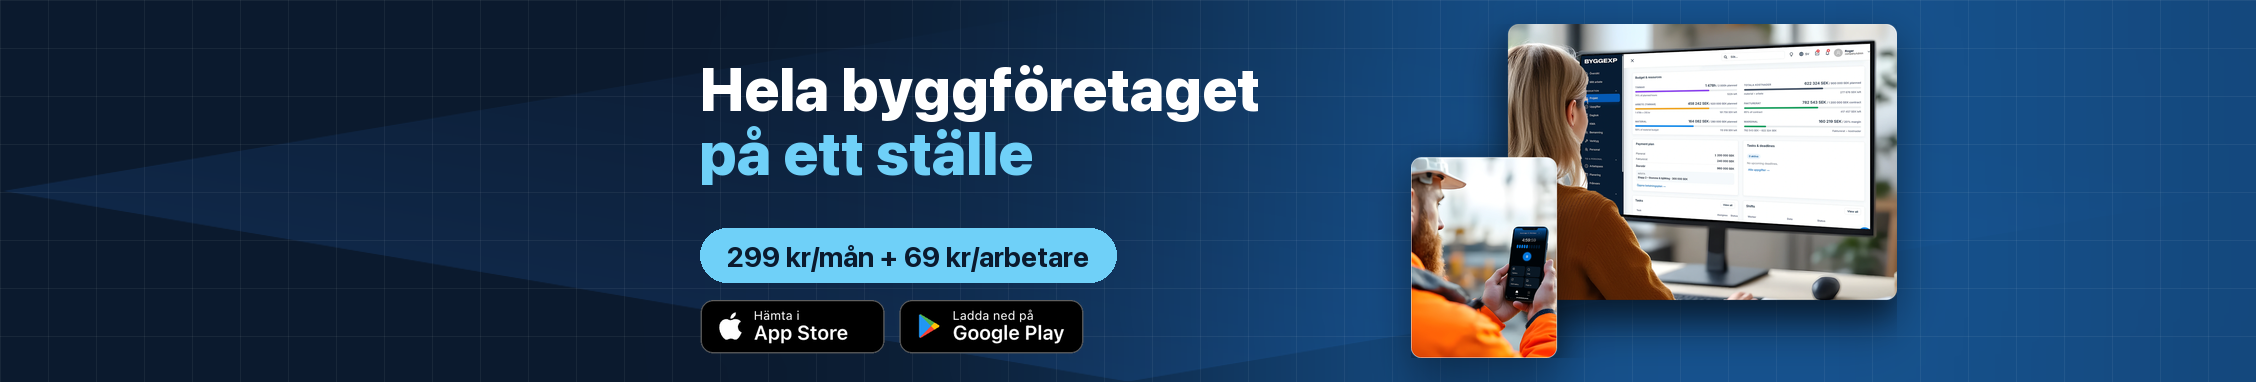
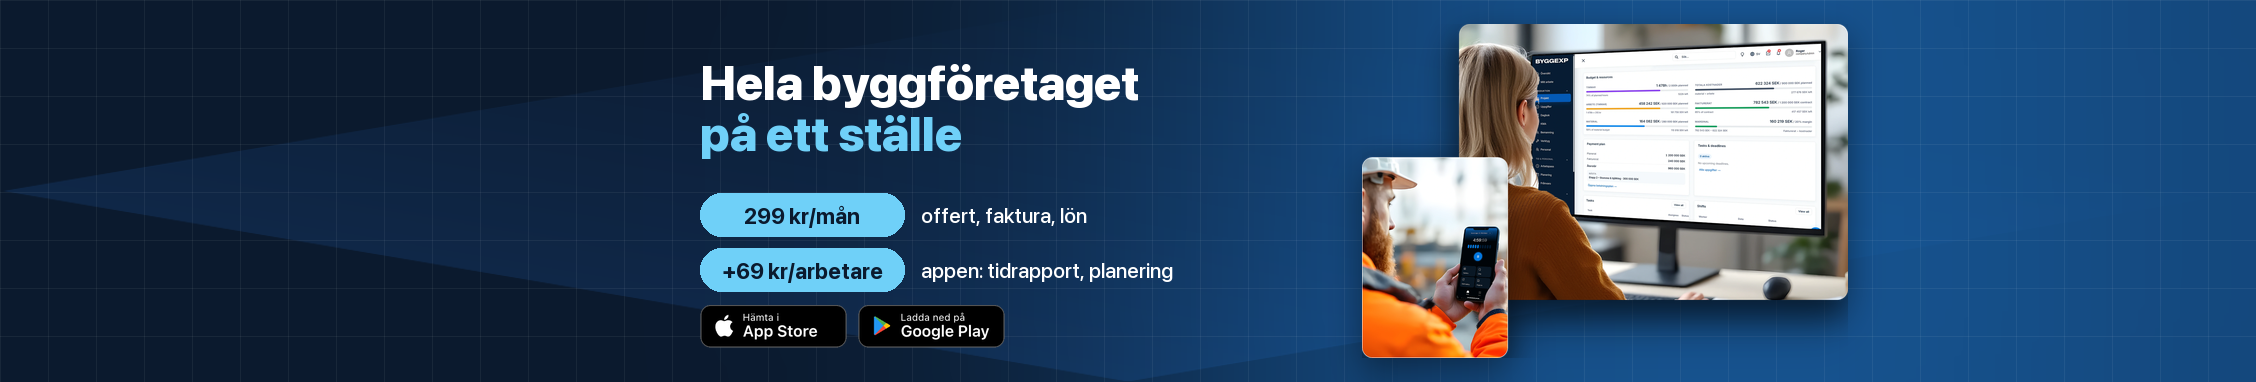
Hero: trust check 'Gratis flytt av data' instead of 'Ingen bindningstid' (owner)
Claude-Session: https://claude.ai/code/session_01L9ZqtpjYjzaGwTqWE1SvSq

Changed region(s): [[0.5895, 0.0576, 0.8688, 0.9791], [0.3103, 0.1728, 0.5585, 0.9503]]

diff --git a/src/components/HeroV2/HeroV2.tsx b/src/components/HeroV2/HeroV2.tsx
@@ -115,7 +115,7 @@ function HeroV2({ variant = "center" }: HeroV2Props) {
           <ul className="hero-v2-meta">
             <li>✓ 14 dagar gratis</li>
             <li>✓ Ingen startavgift</li>
-            <li>✓ Ingen bindningstid</li>
+            <li>✓ Gratis flytt av data</li>
           </ul>
 
           {showScenes && <StoreBadges place="content" />}

diff --git a/design-assets/social/covers/make_covers.py b/design-assets/social/covers/make_covers.py
@@ -67,7 +67,8 @@ def cover(name, w, h, safe, lines, fs, cell, sub=None, tw=None, shot=None, url=N
     if url:
         sub_lines = sub_lines + [url]
     ph = int(fs * .9)  # S17 price pill, S16 store badges under it
-    extra = (int(fs * .4) + ph if price else 0) + (int(fs * .3) + ph if stores else 0)
+    rows = [price] if isinstance(price, str) else (price or [])  # S18: [(price, what it includes)]
+    extra = (int(fs * .4) + len(rows) * ph + (len(rows) - 1) * int(fs * .25) if rows else 0) + (int(fs * .3) + ph if stores else 0)
     block_h = lh * len(lines) + (int(fs * .4) + slh * len(sub_lines) if sub_lines else 0) + extra
     y = st + (sh - block_h) // 2
     text_w = 0
@@ -80,14 +81,22 @@ def cover(name, w, h, safe, lines, fs, cell, sub=None, tw=None, shot=None, url=N
         d.text((sl, y), t, font=font(int(fs * .42), "Heavy") if t == url else small, fill=SKY if t == url else (200, 214, 232))
         text_w = max(text_w, d.textlength(t, font=small))
         y += slh
-    if price:
+    if rows:
         y += int(fs * .4) - (int(fs * .4) if sub_lines else 0)
-        fp = font(int(ph * .52), "Bold")
-        pw = d.textlength(price, font=fp) + ph
-        d.rounded_rectangle((sl, y, sl + pw, y + ph), ph // 2, fill=SKY)
-        d.text((sl + ph / 2, y + ph * .2), price, font=fp, fill=NAVY)
-        text_w = max(text_w, pw)
-        y += ph
+        fp, fl = font(int(ph * .52), "Bold"), font(int(ph * .5), "Medium")
+        pw = max(d.textlength(r[0] if isinstance(r, tuple) else r, font=fp) for r in rows) + ph  # equal pill width
+        for i, r in enumerate(rows):
+            p, label = r if isinstance(r, tuple) else (r, None)
+            if i:
+                y += int(fs * .25)
+            d.rounded_rectangle((sl, y, sl + pw, y + ph), ph // 2, fill=SKY)
+            d.text((sl + (pw - d.textlength(p, font=fp)) / 2, y + ph * .2), p, font=fp, fill=NAVY)
+            rw = pw
+            if label:  # what the price includes, one left line for all labels
+                d.text((sl + pw + ph * .4, y + ph * .22), label, font=fl, fill=WHITE)
+                rw = pw + ph * .4 + d.textlength(label, font=fl)
+            text_w = max(text_w, rw)
+            y += ph
     if stores:
         y += int(fs * .3)
         b = Image.open(TILES / "stores.png").convert("RGBA").crop((313, 64, 931, 151))
@@ -144,8 +153,8 @@ for n in ("linkedin-cover-value", "linkedin-cover-product"):  # LinkedIn rejects
 # S16/S17: hero collage from the home page + price + store badges
 HERO = Image.open(TILES / "hero-nostores.png")  # badges sit next to the price instead
 HEAD = [("Hela byggföretaget", WHITE), ("på ett ställe", SKY)]
-PRICE = "299 kr/mån + 69 kr/arbetare"
-cover("facebook-cover-v4", 1640, 624, (230, 40, 1180, 544), HEAD, 64, 48, shot=HERO, price=PRICE, stores=True)
-cover("linkedin-cover-v4", 2256, 382, (700, 24, 1300, 334), HEAD, 60, 48, shot=HERO, price=PRICE, stores=True)
+PRICE = [("299 kr/mån", "offert, faktura, lön"), ("+69 kr/arbetare", "appen: tidrapport, planering")]  # S18
+cover("facebook-cover-v4", 1640, 624, (270, 40, 1100, 544), HEAD, 64, 48, shot=HERO, price=PRICE, stores=True)
+cover("linkedin-cover-v4", 2256, 382, (700, 24, 1300, 334), HEAD, 48, 48, shot=HERO, price=PRICE, stores=True)
 Image.open(HERE / "linkedin-cover-v4.png").convert("RGB").resize((1584, 268), Image.LANCZOS).save(HERE / "linkedin-cover-v4.jpg", quality=92)
 print("ok")

diff --git a/design-assets/social/DESIGN-SYSTEM-SMM.md b/design-assets/social/DESIGN-SYSTEM-SMM.md
@@ -57,6 +57,8 @@
 
 **S17 · 2026-10-20 · Цена видна везде.** Каждый пост, обложка и закреп показывают цену внутри квадрата сетки (S15): плашка «299 kr/mån · +69 kr/arbetare» (на постах рубрики — её цена), в тексте поста цена в первых строках. Источник цен — `src/components/HeroV2/HeroV2.tsx`; старые цены (299/690/990) не использовать, посты с ними — в архив. Почему: владелец: «цены — наша фишка, не прятать».
 
+**S18 · 2026-10-20 · Цена с пояснением, что в неё входит.** Не голая «299 kr/mån + 69 kr/arbetare», а строки «плашка цены + что входит»: «299 kr/mån — offert, faktura, lön» и «+69 kr/arbetare — appen: tidrapport, planering». Плашки одной ширины, пояснения выровнены по одной линии. Источник состава — `PRICE_LINES` в `src/components/HeroV2/HeroV2.tsx`. Код: `covers/make_covers.py` (`price` = список пар). Почему: владелец: «не понятно, что и за что — дать пояснения, что входит в сумму».
+
 **S7 · Текст.** Шведский, без кириллицы; только факты из `docs/seo/product-facts-verified.md`; ссылки с UTM.
 
 ## Чек-лист перед показом
@@ -68,4 +70,4 @@
 6. Посмотреть результат картинкой до отправки владельцу.
 7. Агент-критик прошёл и ответил «чисто» (S9).
 8. Обложка, слоган, закреп: платный продукт, а не бесплатные инструменты (S14).
-9. Фото фичи с сайта + значки сторов где положено (S16); цена видна в квадрате и в тексте, цены актуальные (S17).
+9. Фото фичи с сайта + значки сторов где положено (S16); цена видна в квадрате и в тексте, цены актуальные (S17); у цены видно, что в неё входит (S18).

diff --git a/docs/seo/product-facts-verified.md b/docs/seo/product-facts-verified.md
@@ -33,3 +33,6 @@
 
 ## Skanning (ägaren bekräftat 2026-10-20)
 - YES: skanning av kvitton och inkommande fakturor (admin, e-post); arbetare skannar kvitton med mobilkameran i appen.
+
+## Flytt (ägaren bekräftat 2026-10-20)
+- YES: vi hjälper kunden att flytta över (data från gamla systemet) gratis.
